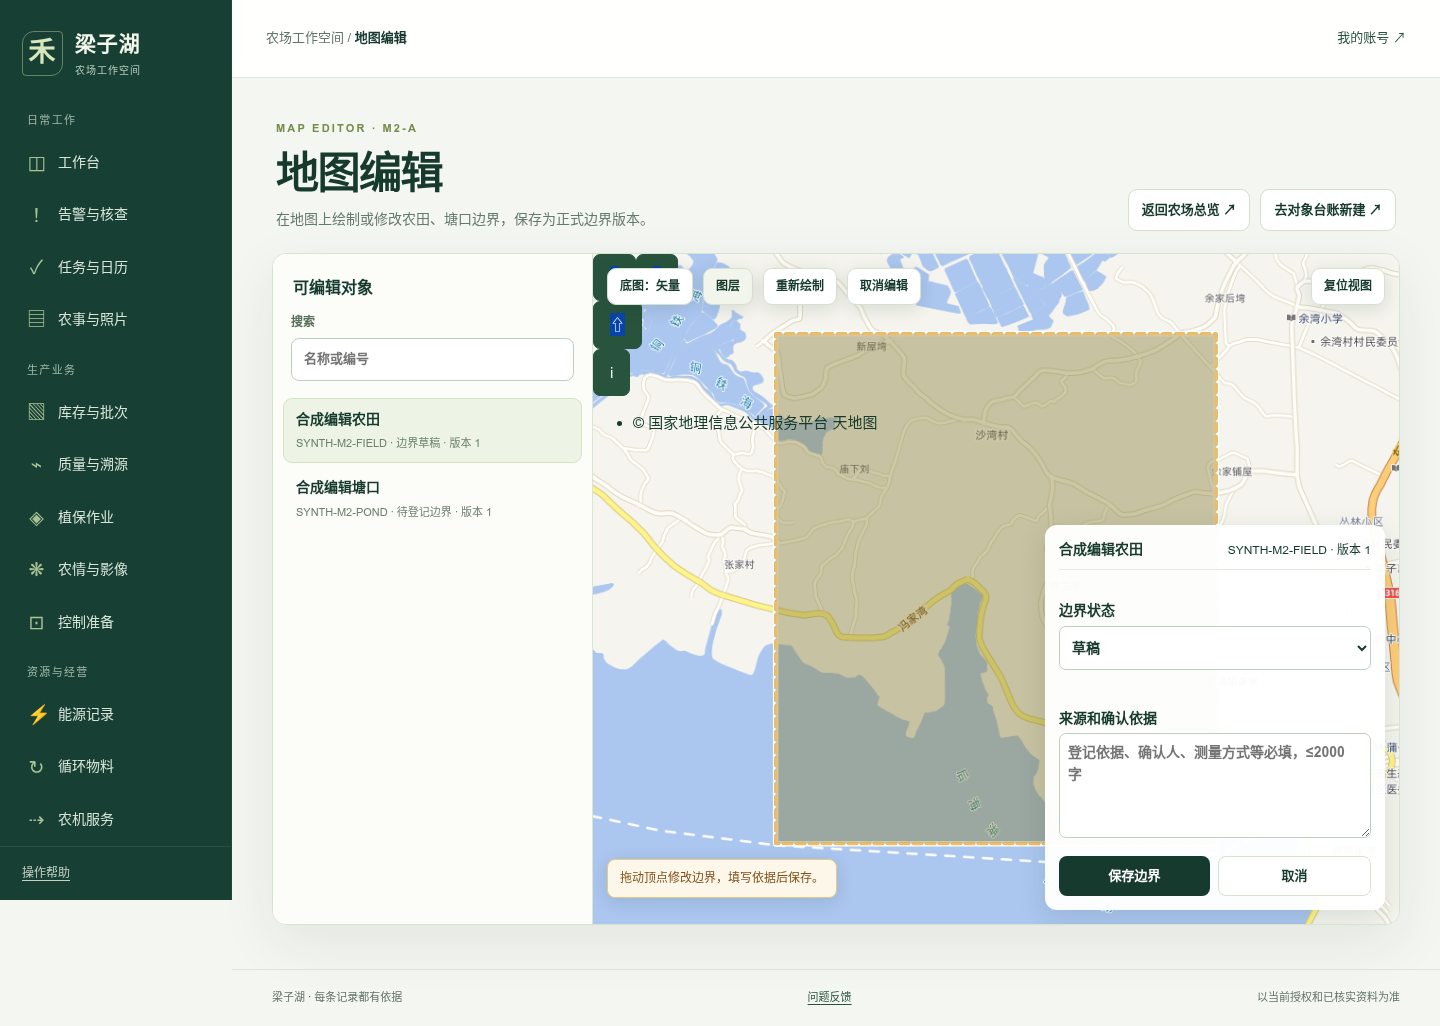
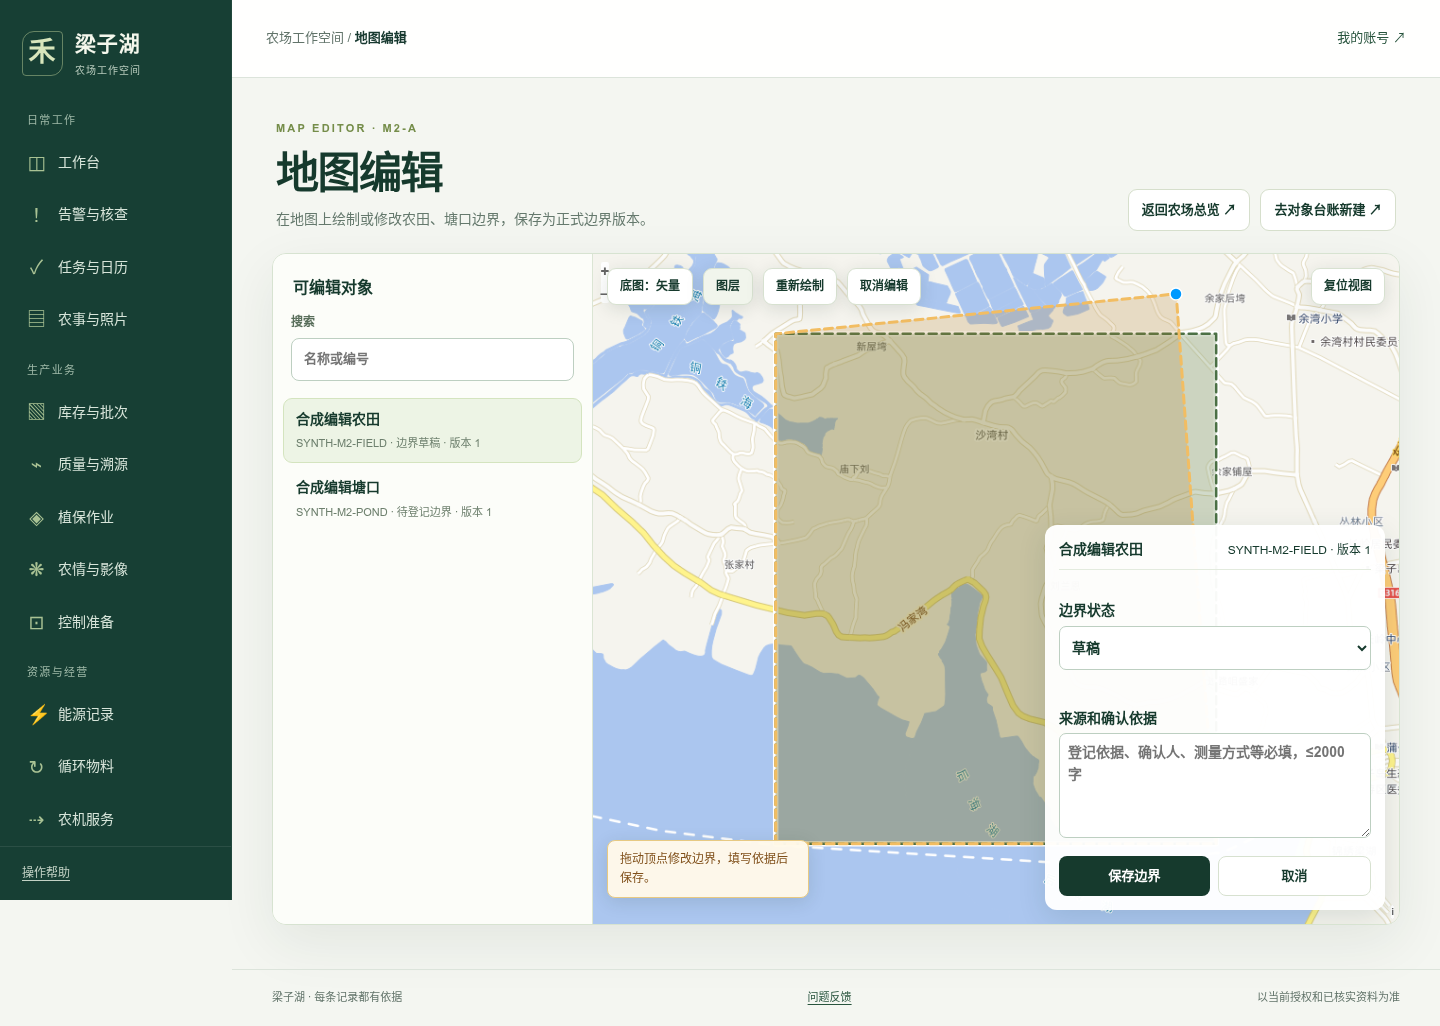
docs(m2b): 验收记录、截图、变更日志与 README 升级说明

diff --git a/tests/acceptance/object-management-browser.test.ts b/tests/acceptance/object-management-browser.test.ts
@@ -54,7 +54,7 @@ test('M2-B 农业对象新增与管理体验重构',{timeout:300000},()=>withDb(
    await page.getByLabel('所属村庄').selectOption('测试村');
    await Promise.all([page.waitForResponse(response=>response.url().endsWith('/api/v1/objects')&&response.request().method()==='POST'&&response.status()===201),page.waitForResponse(response=>response.url().endsWith('/api/v1/map-regions')&&response.request().method()==='PATCH'&&response.status()===200),page.getByRole('button',{name:'保存对象'}).click()]);
    await page.getByRole('button',{name:/M2B 测试农田/}).waitFor();
-   await page.getByText('待登记边界').waitFor();
+   await page.getByRole('button',{name:/M2B 测试农田/}).getByText('待登记边界').waitFor();
    await page.screenshot({path:'docs/acceptance/m2b/02-新增农田待补位置.png',fullPage:true});
    const field=(await pool.query("SELECT id FROM objects WHERE code='SYNTH-M2B-FIELD'")).rows[0];
    const link=(await pool.query('SELECT region_id FROM map_region_links WHERE object_id=$1 AND valid_to IS NULL',[field.id])).rows[0];

diff --git a/docs/acceptance/m2b/2026-10-15-对象新增与管理体验重构验收记录.md b/docs/acceptance/m2b/2026-10-15-对象新增与管理体验重构验收记录.md
@@ -1,0 +1,55 @@
+# 农业对象新增与管理体验重构（M2-B）验收记录
+
+日期：2026-10-15。依据：`计划/梁子湖二维 GIS：农业对象新增与管理体验重构.md`、[设计说明](../../plans/2026-10-15-对象新增与管理体验重构设计.md)。分支 `m2b-object-management`（基于 M2-A 顶端 `39cbf69`；M1/M2-A 尚未合并 main，按任务书基于最新分支）。验证在 luminous 隔离环境（worktree `/data/wfx/liangzihu-m1`、隔离测试库随机 schema、生产构建）完成；未部署生产，未写正式数据。
+
+## 交付内容
+
+- **右操作抽屉**（`management-drawer.tsx`）：新增村庄（农场/名称/维护依据）、新增农业对象（类型/名称/编号建议值/登记依据/所属村庄/「现在绘制边界·稍后登记位置」）、更改所属村庄（当前村庄+新村庄+依据，一次 assignRegion 完成）、维护村庄与关联（原 RegionManagement 迁入）。默认关闭，手机端全宽底部面板。
+- **左目录轻量化**：移除嵌入的村庄维护折叠表单；村庄节点旁「＋」直接在该村上下文发起新增对象。
+- **连续流程**：新增对象 = 创建（POST /api/v1/objects）+ 关联（PATCH assign）顺序执行；创建成功但关联失败时保留对象身份与输入，提供「重试关联」，不产生重复对象；编号建议值可改，`CODE_EXISTS` 时保留输入提示；提交中禁用按钮防重。
+- **编辑器上下文连续**：`/map-editor?object=<id>&from=farm-overview` 自动选中新对象进入绘制；保存成功后消息区出现「返回农场总览 ↗」，总览恢复此前片区与视口。
+- **固定设施**：同一面板登记 kind=facility，不绘制点位、不假造坐标，标注"稍后补位置"。
+- **机动设备**：仅保留查看与 `/machinery` 原入口，未新增绑定逻辑。
+- **M2-A 安全小修**：
+  1. 已核实边界进入编辑默认草稿、来源依据清空重填；review 权限按当前对象 ID 判断（原全局判断已修）。
+  2. 409 冲突两段式：「查看最新边界」（重拉数据、参考层显示当前正式边界）→ 用户确认后才可「确认重新提交」；本地几何全程保留。
+  3. drawend 后 Draw 停用，单次只保留一个待提交多边形；保存校验 editSource 恰好一个面；「重新绘制」清旧草稿。
+  4. 切换对象/取消/页面关闭（beforeunload）对未保存修改弹确认。
+  5. 浏览器测试含不规则六边形绘制保存与顶点拖动修改。
+
+## 验收核对（任务书第四节 11 项）
+
+| 场景 | 结果 |
+|---|---|
+| 新增村庄后立即显示 | 通过：保存后目录即时出现「测试村」并自动选中；[截图](01-新增村庄后目录.png) |
+| 村庄下新增正式农田、关联正确 | 通过：创建+关联一次完成；`map_region_links` 断言关联至该村；[截图](02-新增农田待补位置.png) |
+| 未登记位置对象出现在目录 | 通过：标记「待登记边界」，无虚假几何 |
+| 绘制不规则边界保存、刷新仍在 | 通过：新增塘口 → 跳编辑器自动选中 → 六边形绘制 → 草稿保存 → DB WKT 断言；[截图](03-塘口不规则六边形保存.png)、[返回总览](04-绘制后返回总览.png) |
+| 调整村庄后目录与历史正确 | 通过：两条关联历史，旧关联已结束（valid_to 非空）、新关联当前有效；[截图](05-更改所属村庄后.png) |
+| 失败/重复提交不制造重复对象 | 通过：关联失败路径保留对象可重试；提交中按钮禁用；CODE_EXISTS 保留输入 |
+| 普通用户无权创建/审核 | 通过：worker 无「新增农业对象」入口；直接 POST /api/v1/objects 403；maintainer 无 review 时编辑器不出现「已核实」，强制 POST verified 403 |
+| 版本冲突不静默覆盖 | 通过（M2-A 测试）：409 → 保留几何 → 查看最新边界 → 确认重新提交才落库 |
+| 返回总览保留片区/搜索/视口 | 通过：编辑器保存后经消息区链接返回，M1 会话状态恢复 |
+| 桌面与手机核心流程 | 通过：390px 目录抽屉 + 管理菜单可用、无横向溢出；[截图](06-手机管理菜单.png) |
+| 既有模块回归 | 通过：M1/D1/D2/D3.1/M2-A 浏览器用例全绿；`/map`、`/map-prototype`、`/terrain` 不受影响 |
+
+## 工程验证
+
+- `pnpm typecheck`：通过。`pnpm build`：通过。
+- 单测 97 通过（1 项既有并发时序用例全量偶发、单独通过，与本轮无关）。
+- 集成 155/163——8 项失败（备份恢复/模型类）在未改动基线 main 上同样失败，为 luminous 环境既有问题。
+- 浏览器：`object-management-browser`（新）、`map-editor-browser`（更新为六边形+两段式冲突）、`farm-overview-d31-browser`（新增路径迁移到抽屉）及 M1/D1/D2 回归全部通过。
+
+## 调试与审查记录（本轮实际发现并修复）
+
+1. **`/map-editor` 页面漏引 `ol/ol.css`**：OpenLayers 控件（折叠的 attribution/rotate）无定位样式，静态铺开的 LI 覆盖地图顶点区域吞掉 pointerdown，导致顶点拖动失效。已补导入。
+2. **全局 `button{width:100%;min-height:46px}` 污染 OL 控件按钮**：缩放/ attribution 按钮被撑大，遮挡地图命中。`globals.css` 增加 `.ol-control button` 隔离规则（同时修复 M1 地图上缩放按钮为深绿色块的外观问题）。
+3. 顶点拖拽测试防惯性：DragPan 动能滑动使"先平移再拖"失准，改为从 `data-edit-geometry` 动态读取当前 NE 顶点直接拖拽，编辑几何变化经 data 钩子校验、最多重试 3 次。
+4. 表单可访问名：三个抽屉表单补 `aria-label`；测试标签二义（名称/编号 vs 目录搜索框）用 exact/role 消歧；关联历史断言修正排序语义；保存成功后"返回农场总览"链接有两处（页头+消息区），测试按序选择。
+
+## 遗留问题
+
+- 编辑器切换对象时若有未保存修改，浏览器原生 confirm 提示（任务书认可的保护方式）；无自定义对话框。
+- 编号建议值采用内置常见字拼音表，表外首字回退 `cun-` 前缀；唯一性由后端 `CODE_EXISTS` 兜底。
+- 固定设施点位登记、渠道边界类型暂未开放（服务层支持，待后续轮次）。
+- luminous 环境既有失败项（platform-browser、8 项集成）与本轮无关，仍待环境排查。

diff --git a/CHANGELOG.md b/CHANGELOG.md
@@ -4,6 +4,11 @@
 
 从 2026-10-04 起，每次代码、配置、依赖、数据库或文档调整均须随交付更新本文件。同一任务的连续修改合为一条，同日不同任务另起条目；历史补记注明来源。日期采用北京时间，序号只区分当天记录，不是软件版本号。
 
+## 2026-10-15 · 01 · 对象新增与管理体验重构（M2-B）
+
+- **改动与原因**：农场总览新增/管理改为右侧按需抽屉（新增村庄、村庄下新增农田/塘口/设施、更改所属村庄、村庄维护），左目录移除嵌入表单、村庄节点加「＋」入口；创建对象与村庄关联顺序执行、失败保留对象可重试、编号建议值可改且 CODE_EXISTS 保留输入；新增流程可连续进入 `/map-editor`（`?object=` 预选、保存后返回总览恢复视口）。M2-A 安全小修：已核实边界默认草稿且来源重填、review 按当前对象判断、409 两段式「查看最新边界→确认重新提交」、单一待提交多边形、未保存修改确认。另修复 `/map-editor` 漏引 ol/ol.css 导致顶点无法拖拽，及全局 button 样式撑破 OpenLayers 控件的问题。设计见 [文档](docs/plans/2026-10-15-对象新增与管理体验重构设计.md)。
+- **验证与影响**：luminous 隔离环境类型检查与生产构建通过；单测 97 通过；集成 155/163（8 项为基线同样失败的环境问题）；新增 M2-B 浏览器闭环及 M1/D1/D2/D3.1/M2-A 回归全绿。无数据库迁移，未改正式 API 语义，未部署生产。[验收记录与截图](docs/acceptance/m2b/2026-10-15-对象新增与管理体验重构验收记录.md)。
+
 ## 2026-10-14 · 02 · M2-A 独立地图编辑模式
 
 - **改动与原因**：新增 `/map-editor`：正式农田/塘口边界的可视化绘制、顶点拖动修改、预览、取消与保存闭环，复用 `/api/v1/map` 正式保存链路（对象版本校验、configure/review 权限、4326 存储、`boundary_versions` 历史）。版本冲突保留未提交几何并可刷新重试；无 review 权限不显示「已核实」。继承 M1 矢量/卫星底图与分类样式；总览页头与侧边导航加入口。设计见 [M2-A 设计](docs/plans/2026-10-14-M2A独立地图编辑模式设计.md)。

diff --git a/README.md b/README.md
@@ -10,6 +10,8 @@
 
 ## 最新升级
 
+**2026-10-15：农业对象新增与管理体验重构完成，待验收（分支 `m2b-object-management`）。** 在农场总览即可连续完成：新增村庄 → 村庄下「＋」新增农田/塘口/固定设施（自动创建正式对象并关联村庄，编号给建议值但不覆盖既有）→ 选择立即绘制边界（自动进入地图编辑器并选中）或稍后补位置。对象详情可一键更改所属村庄（关联历史保留）。M2-A 编辑器安全加强：已核实边界默认存草稿、409 冲突需先查看最新边界再确认提交、未保存修改有确认保护。[验收记录与截图](docs/acceptance/m2b/2026-10-15-对象新增与管理体验重构验收记录.md)。未部署生产，等待验收。
+
 **2026-10-14：M2-A 独立地图编辑模式完成，待验收（分支 `m2-map-editor`）。** 新增 `/map-editor`：选择已获配置权的农田/塘口后，可直接在地图上绘制多边形或拖动顶点修改边界，预览后保存为正式边界版本；取消不写库，版本冲突保留未提交几何并可刷新重试，「已核实」仍受原 review 权限约束。继承 M1 底图与分类样式，总览与编辑器互通。[M2-A 验收记录与截图](docs/acceptance/m2/2026-10-14-M2A地图编辑验收记录.md)。未部署生产，等待验收。
 
 **2026-10-14：M1 地图与 UI 改造完成，待验收（分支 `m1-map-ui-redesign`）。** `/farm-overview` 默认改用天地图矢量底图（简洁低干扰），卫星影像一键切换、注记可关；新增图层面板管理底图、注记与农田/塘口/渠道/固定设施/机动设备的显隐并附分类图例；真实对象边界按类别着色并加白色衬底描边，已核实实线、草稿虚线不变；默认视口聚焦梁子湖农业区。底图与类别选择刷新后保持。类型检查、生产构建、新增 M1 浏览器用例及 D1—D3.1 回归通过。[M1 验收记录与截图](docs/acceptance/m1/2026-10-14-M1地图与UI改造验收记录.md)。未部署生产，等待验收。
